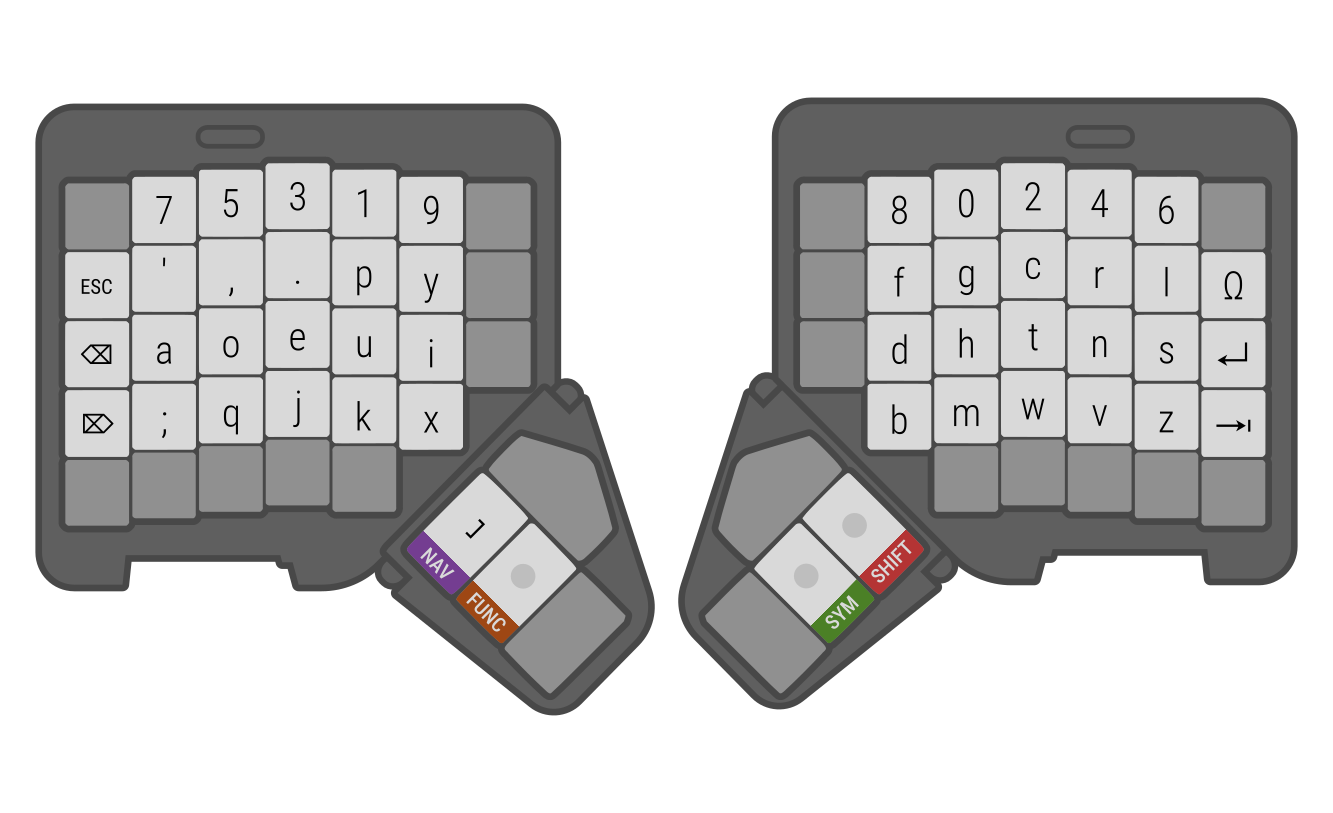
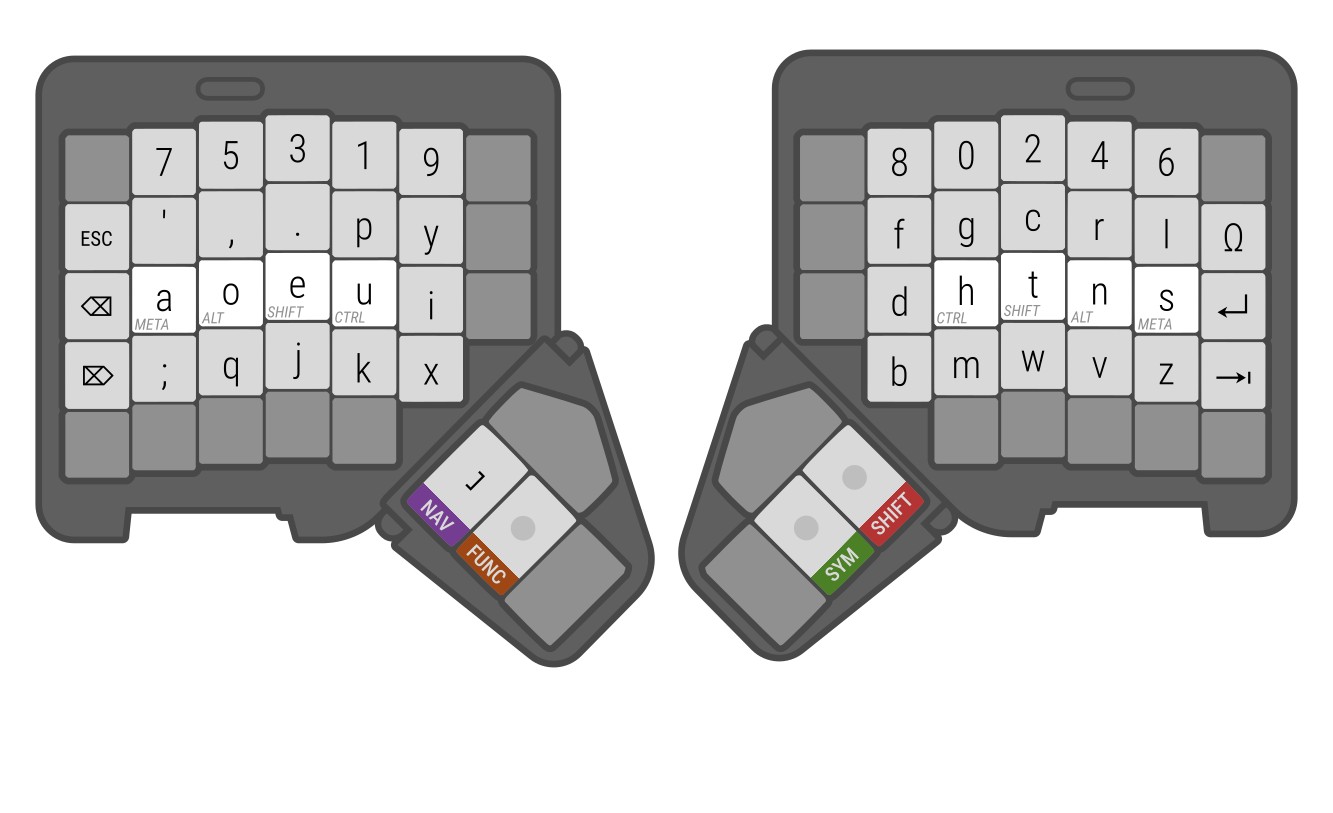
draft

diff --git a/README.md b/README.md
@@ -1,29 +1,87 @@
 ![logo](Assets/logo.png)
 
-**Apollo** is a custom keyboard layout for the programmable ZSA Moonlander keyboard. It uses the DVORAK layout as a base for the letters while using custom layer keys for symbols. Designed to be comfortable to type on for coding, gaming, and media creation.
+**Apollo** is a custom keyboard layout for the programmable ZSA Moonlander keyboard. It uses the DVORAK layout as a base for the letters while using custom layer keys for symbols. It's designed to be comfortable to type on for coding, gaming, and media creation.
 
-![logo](Assets/1.png)
+![main layout](Assets/1.png)
 
-This is the default configuration.
+![letter layout](Assets/g11.png)
 
-![logo](Assets/h2.png)
+The letters are arranged as they appear in the original DVORAK layout.
 
-![logo](Assets/2.png)
+![number keys](Assets/g12.png)
 
-The shift key behaves as expected
+The number row is setup so that the [most frequently appearing numbers](https://en.wikipedia.org/wiki/Benford%27s_law) are placed in the most comfortable positions.
 
-![logo](Assets/h3.png)
+The most common 0 and 1 use the index finger, while the less common 6 7 8 and 9 need a bit of a stretch.
 
-![logo](Assets/3.png)
+The numbers are grouped into even and odd, almost identically to the original [programmer's Dvorak layout](https://www.kaufmann.no/roland/dvorak/).
 
-![logo](Assets/h4.png)
+![pinky keys](Assets/g13.png)
 
-![logo](Assets/4.png)
+Backspace, delete, and escape are all located on the left pinky. This frees up the right hand to operate the mouse, and is useful for photo/video editing where these keys are pressed repeatedly.
 
-![logo](Assets/h5.png)
+![home row mods](Assets/g14.png)
 
-![logo](Assets/5.png)
+This layout uses [home row mods](https://precondition.github.io/home-row-mods). Holding down the main row letters `a`, `o`, `e`, `u` and `h`, `t`, `n`, `s` will send CTRL, ALT, SHIFT, or META.
 
-![logo](Assets/h6.png)
+Note that the shift key in this position isn't meant to be used to create capital letters; it's there for shortcuts.
 
-![logo](Assets/6.png)
+![omega key](Assets/g15.png)
+
+This key types an omega symbol. Useless on its own, but it's super handy when combined with text expander software like [Espanso](https://espanso.org/).
+
+In an example setup, you could perhaps type `Ωcell` and it'll paste your cellphone number automatically. The macros are customizable.
+
+![blank space](Assets/blank.png)
+
+![Shift Layer](Assets/h2.png)
+
+![shifted layout](Assets/2.png)
+
+The shift key, besides being used for capital letters, also grants access to some punctuation.
+
+![punctuation](Assets/g17.png)
+
+`_`, `!`, `?`, and `:` are found on the shift layer. This is different from standard DVORAK, but for good reason.
+
+Underscore and question mark had positions that were too far to the side to fit on the Moonlander. In addition, the `<`, `>`, and `"` keys that were originally on the shift layer are much better suited to the dedicated symbol layer.
+
+![blank space](Assets/blank.png)
+
+![Symbol Layer](Assets/h3.png)
+
+![symbol layout](Assets/3.png)
+
+The symbol layer contains all the remaining typed characters.
+
+![Shift Layer](Assets/g18.png)
+
+The position of each symbol on this layer was fine-tuned over prolonged usage. This layout places very common symbols in comfortable positions while also making sure that commonly typed programming patterns remain easy to type. The same finger is prevented from being used twice in a row as much as possible.
+
+`()`, `[]`, `<>`, and `{}` are able to be typed in a rolling motion.
+
+Having `<` and `>` on the symbol layer makes common programming patterns like `= >`, `- >` very easy.
+
+Having `"` on the symbol layer is almost necessary, as it's extremely common in programming to have to type patterns like `(" ")`, `" " + " "`, `= " ";`. If it were still on the shift layer, it would add too much layer switching during programming.
+
+![Shift Layer](Assets/g19.png)
+
+This layout uses the Canadian Multilingual keymapping. This makes it possible to type accented letters. The relevant keys are represented by empty boxes with an accent.
+
+![blank space](Assets/blank.png)
+
+![Function Layer](Assets/h4.png)
+
+![function layout](Assets/4.png)
+
+![blank space](Assets/blank.png)
+
+![Navigation Layer](Assets/h5.png)
+
+![navigation layout](Assets/5.png)
+
+![blank space](Assets/blank.png)
+
+![Shortcuts and Extras](Assets/h6.png)
+
+![extras layout](Assets/6.png)
